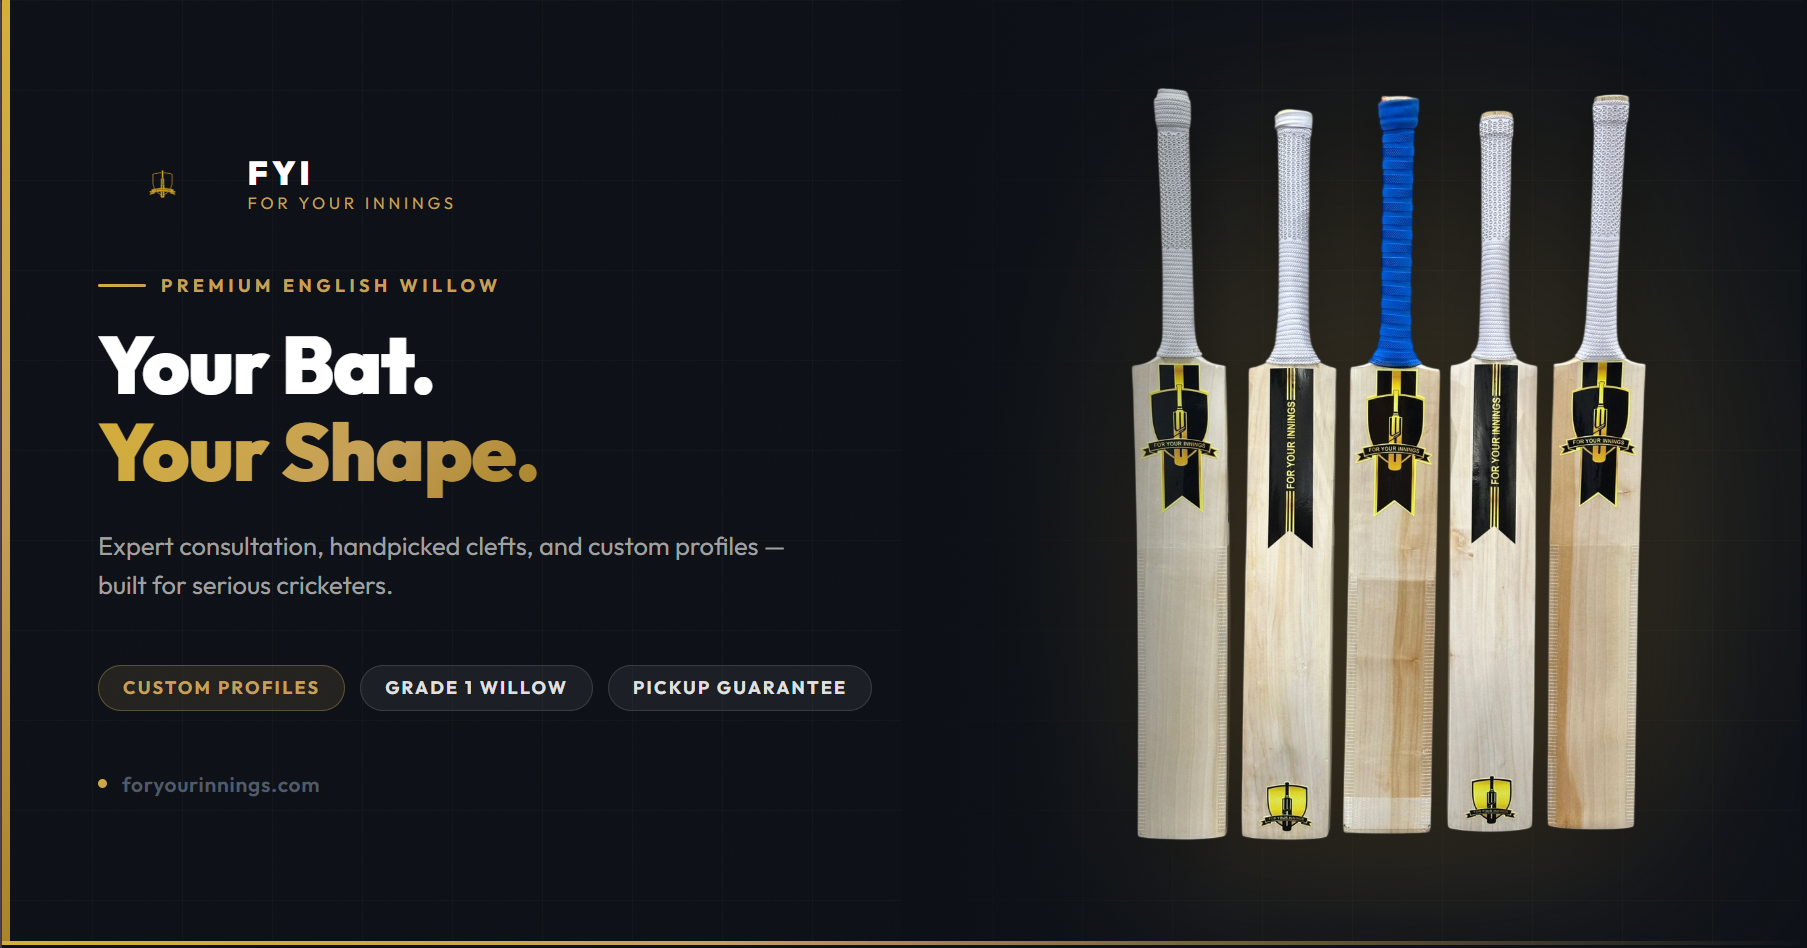
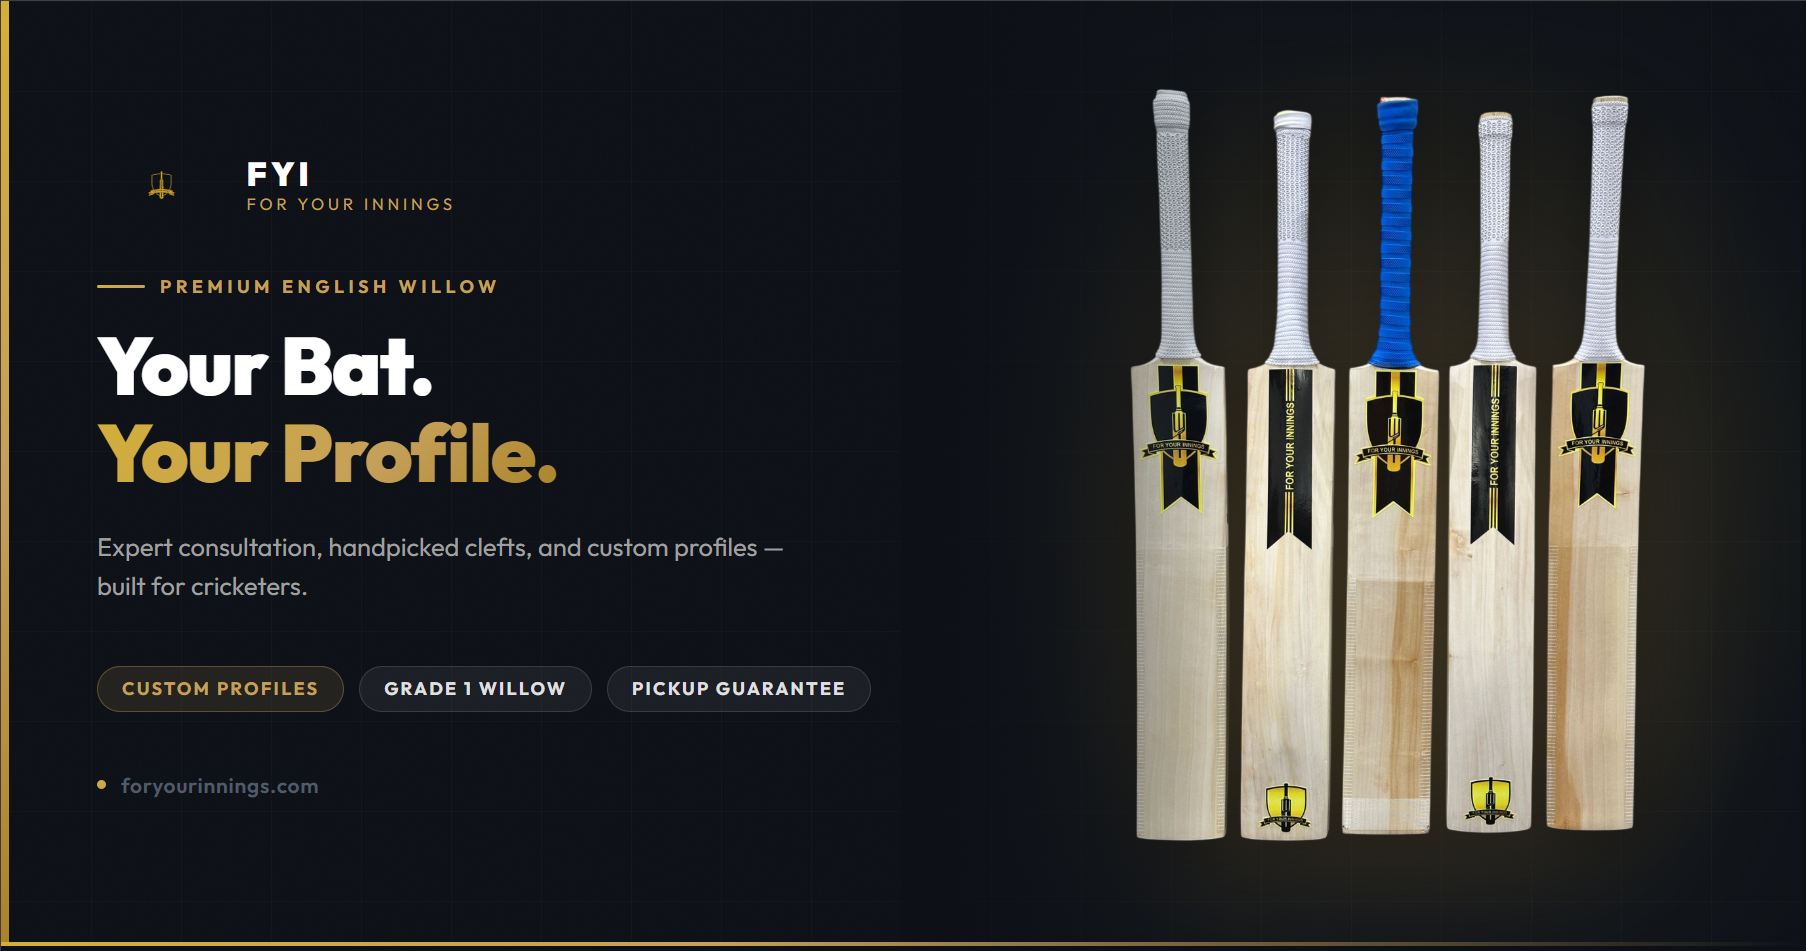
Image change

diff --git a/FYI/og-image-template.html b/FYI/og-image-template.html
@@ -1,5 +1,6 @@
 <!DOCTYPE html>
 <html lang="en">
+
 <head>
   <meta charset="utf-8" />
   <meta name="viewport" content="width=1200" />
@@ -8,7 +9,13 @@
   <link rel="preconnect" href="https://fonts.gstatic.com" crossorigin />
   <link href="https://fonts.googleapis.com/css2?family=Outfit:wght@400;600;700;800;900&display=swap" rel="stylesheet" />
   <style>
-    *, *::before, *::after { box-sizing: border-box; margin: 0; padding: 0; }
+    *,
+    *::before,
+    *::after {
+      box-sizing: border-box;
+      margin: 0;
+      padding: 0;
+    }
 
     body {
       width: 1200px;
@@ -53,8 +60,8 @@
       position: absolute;
       inset: 0;
       background-image:
-        linear-gradient(rgba(197,160,89,0.04) 1px, transparent 1px),
-        linear-gradient(90deg, rgba(197,160,89,0.04) 1px, transparent 1px);
+        linear-gradient(rgba(197, 160, 89, 0.04) 1px, transparent 1px),
+        linear-gradient(90deg, rgba(197, 160, 89, 0.04) 1px, transparent 1px);
       background-size: 60px 60px;
       z-index: 2;
     }
@@ -68,7 +75,7 @@
       width: 620px;
       height: 620px;
       border-radius: 50%;
-      background: radial-gradient(circle, rgba(197,160,89,0.13) 0%, rgba(212,175,55,0.06) 40%, transparent 70%);
+      background: radial-gradient(circle, rgba(197, 160, 89, 0.13) 0%, rgba(212, 175, 55, 0.06) 40%, transparent 70%);
       z-index: 2;
     }
 
@@ -90,7 +97,7 @@
       width: 100%;
       height: 100%;
       object-fit: contain;
-      filter: drop-shadow(0 20px 60px rgba(197,160,89,0.25)) drop-shadow(0 4px 20px rgba(0,0,0,0.6));
+      filter: drop-shadow(0 20px 60px rgba(197, 160, 89, 0.25)) drop-shadow(0 4px 20px rgba(0, 0, 0, 0.6));
     }
 
     /* ── Left fade so bat blends into content ── */
@@ -225,14 +232,14 @@
     }
 
     .tag-gold {
-      background: rgba(197,160,89,0.12);
-      border: 1px solid rgba(197,160,89,0.35);
+      background: rgba(197, 160, 89, 0.12);
+      border: 1px solid rgba(197, 160, 89, 0.35);
       color: #c5a059;
     }
 
     .tag-white {
-      background: rgba(255,255,255,0.06);
-      border: 1px solid rgba(255,255,255,0.12);
+      background: rgba(255, 255, 255, 0.06);
+      border: 1px solid rgba(255, 255, 255, 0.12);
       color: #e0e0e0;
     }
 
@@ -270,6 +277,7 @@
     }
   </style>
 </head>
+
 <body>
   <div class="canvas">
     <div class="accent-bar"></div>
@@ -297,11 +305,11 @@
 
       <h1 class="headline">
         Your Bat.<br />
-        <span class="highlight">Your Shape.</span>
+        <span class="highlight">Your Profile.</span>
       </h1>
 
       <p class="sub">
-        Expert consultation, handpicked clefts, and custom profiles — built for serious cricketers.
+        Expert consultation, handpicked clefts, and custom profiles — built for cricketers.
       </p>
 
       <div class="tags">
@@ -319,4 +327,5 @@
     <div class="bottom-border"></div>
   </div>
 </body>
+
 </html>
